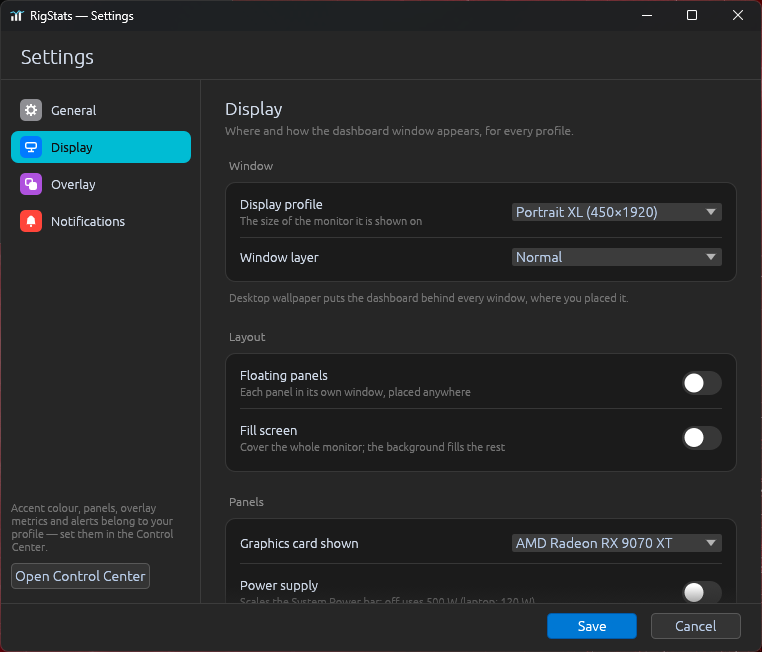
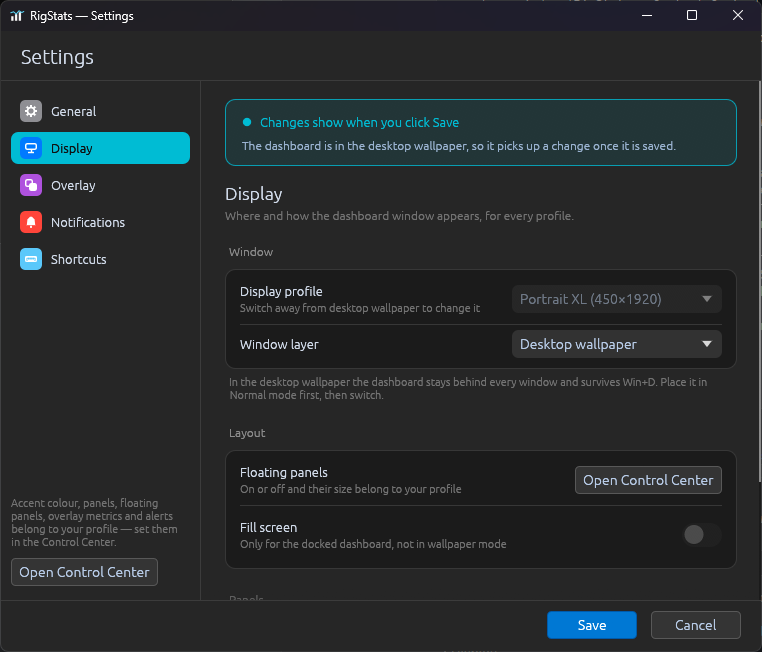
test(settings): Save keeps the profile's floating choice; new screenshots
Settings' Save writes its draft back through carry_live, which now
carries floating mode and size from the live settings (they are part of
the profile's look), so a draft from before the Control Center changed
them can't undo it. A settings file that still names the removed
floating shortcut reads as before.

The Control Center Dashboard and Settings Display screenshots are
retaken: the Layout group with the floating switch, the Full / Compact
choice, and the Floating panels row that opens the Control Center.

Refs #599

diff --git a/website/index.html b/website/index.html
@@ -407,7 +407,7 @@
 
         <div class="cc-row">
           <div class="cc-shot screen-wrap">
-            <img src="images/control-center-dashboard.png" alt="Control Center, Dashboard page: the profile's accent colour as colour dots, panel opacity, and every panel with a switch and arrows to set the order" class="hero-img" loading="lazy">
+            <img src="images/control-center-dashboard.png" alt="Control Center, Dashboard page: the profile's accent colour as colour dots, panel opacity, a Layout group with the floating panels switch, and every panel with a switch, arrows to set the order and a Full or Compact choice for CPU, GPU and RAM" class="hero-img" loading="lazy">
           </div>
           <div class="cc-text">
             <h3>How RIGStats looks</h3>

diff --git a/src-egui/src/windows/settings.rs b/src-egui/src/windows/settings.rs
@@ -1449,6 +1449,21 @@ mod tests {
     }
 
     #[test]
+    fn saving_settings_keeps_the_profiles_floating_choice() {
+        // Floating and its size belong to the profile (#599): a draft from
+        // before the Control Center turned floating on must not turn it off.
+        let mut live = settings::Settings::default();
+        let mut draft = live.clone();
+        live.floating_mode = true;
+        live.floating_panel_scale = 1.7;
+        draft.window_layer = "on_top".into();
+        carry_live(&mut draft, &live);
+        assert!(draft.floating_mode);
+        assert_eq!(draft.floating_panel_scale, 1.7);
+        assert_eq!(draft.window_layer, "on_top", "its own change stays");
+    }
+
+    #[test]
     fn writing_the_draft_back_keeps_what_this_window_does_not_edit() {
         // The live settings: wallpaper layer, click-through on, a look the
         // Control Center set, and a profile's stored look.

diff --git a/rigstats-backend/src/shortcut.rs b/rigstats-backend/src/shortcut.rs
@@ -477,6 +477,18 @@ mod tests {
     }
 
     #[test]
+    fn a_file_with_the_removed_floating_shortcut_still_reads() {
+        // An RC-era file from before #599 removed it: the key is ignored.
+        let s: Shortcuts = serde_json::from_str(
+            r#"{"overlay":"Ctrl+Alt+O","recording":"Ctrl+Alt+R","floating":"Ctrl+Alt+L"}"#,
+        )
+        .unwrap();
+        assert_eq!(s.recording, Shortcut::parse("Ctrl+Alt+R"));
+        assert_eq!(s.overlay, Shortcut::parse("Ctrl+Alt+O"));
+        assert!(!serde_json::to_string(&s).unwrap().contains("floating"));
+    }
+
+    #[test]
     fn a_missing_or_unreadable_value_is_that_actions_default() {
         let s: Shortcuts =
             serde_json::from_str(r#"{"overlay":"Ctrl+Alt+Nope","profiles":42,"microphone":null}"#)
